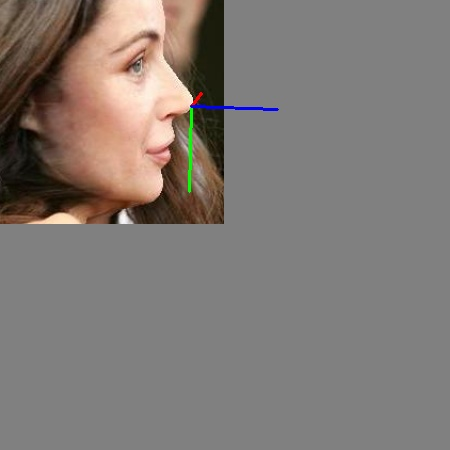
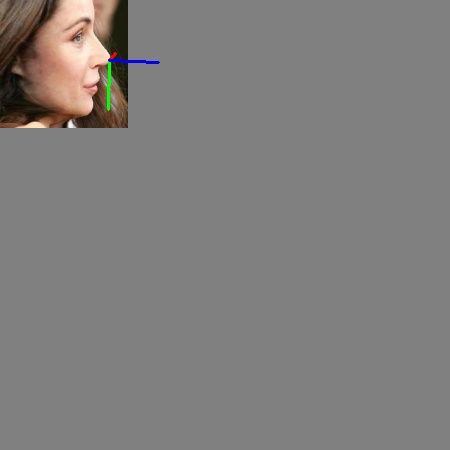
unifying pipeline

Changed region(s): [[0.0, 0.0, 0.6222, 0.4978]]

diff --git a/data_generator/data_generator.py b/data_generator/data_generator.py
@@ -46,7 +46,6 @@ class DataGenerator(Sequence):
             image_path = join(self.dataset_path, image_id)
             image = cv2.imread(image_path)
             parameters_3DMM = label_loader(image_id, self.labels)
-            parameters_3DMM = normalize(parameters_3DMM)
             pt3d = self.pca(np.expand_dims(parameters_3DMM, 0))
             image, roi_box = crop(image, pt3d)
             image, aspect_ratio = resize_image(image, self.input_shape)
@@ -64,10 +63,9 @@ class DataGenerator(Sequence):
             image = normalization(image)
             # Label preprocessing
             sx, sy, ex, ey = roi_box
-            parameters_3DMM = label_loader(image_id, self.labels)
-            parameters_3DMM[3] = parameters_3DMM[3] - sx
-            parameters_3DMM[7] = parameters_3DMM[7] + sy
-            parameters_3DMM = normalize(parameters_3DMM)
+            parameters_3DMM[3] = parameters_3DMM[3] - sx/self.pca.param_std[3]
+            parameters_3DMM[7] = parameters_3DMM[7] + sy/self.pca.param_std[7]
+            
             lmks = self.pca(np.expand_dims(parameters_3DMM, 0)).numpy() *  aspect_ratio
             X.append(image)
             Lc.append(np.squeeze(lmks, axis=0))

diff --git a/utils/data_utils/data_preparing_utils.py b/utils/data_utils/data_preparing_utils.py
@@ -1,6 +1,6 @@
 import json
 import pandas as pd
-from data_generator.labels_preprocessing import pose_to_3DMM
+from data_generator.labels_preprocessing import normalize_dicts, pose_to_3DMM
 import numpy as np
 import pickle
 from utils.data_utils.label_parameters import *
@@ -78,7 +78,7 @@ def create_labels_json(data, dataset=['300W_LP']):
     param_62_std = np.concatenate((Pose_std, Shape_Para_std, Exp_Para_std), axis=0)
     dictionary = {'param_mean':param_62_mean, 'param_std':param_62_std}
     pickle.dump(dictionary, open(path_to_dataset+"param_"+dataset[0]+".pkl", "wb"))
-    # labels = normalize_dicts(labels)
+    labels = normalize_dicts(labels)
     dictionary_to_json(labels, path_to_dataset+'labels_'+dataset[0])
 
 def pose_to_param3DMM(row):

diff --git a/data_generator/labels_preprocessing.py b/data_generator/labels_preprocessing.py
@@ -104,3 +104,13 @@ def denormalize(parameters_3DMM):
 def parsing_pkl(file):
     pca_dir = '3dmm_data/'
     return pickle.load(open(pca_dir+file, 'rb'))
+
+def normalize_dicts(labels):
+    param_mean = parsing_pkl('param_300W_LP.pkl').get('param_mean')
+    param_std = parsing_pkl('param_300W_LP.pkl').get('param_std')
+    for parameters_3DMM in labels.values():
+        parameters_3DMM['Pose'] = (parameters_3DMM['Pose'] - param_mean[:12]) / param_std[:12]
+        parameters_3DMM['Shape_Para'] = (parameters_3DMM['Shape_Para']\
+             - param_mean[12:52]) / param_std[12:52]
+        parameters_3DMM['Exp_Para'] = (parameters_3DMM['Exp_Para'] - param_mean[52:]) / param_std[52:]
+    return labels

diff --git a/input_pipeline.py b/input_pipeline.py
@@ -6,7 +6,7 @@ from utils.loading_data import loading_generators
 import cv2
 
 set_GPU()
-IMG_H = 224
+IMG_H = 128
 input_shape = (IMG_H, IMG_H, 3)
 
 test = '300W'
